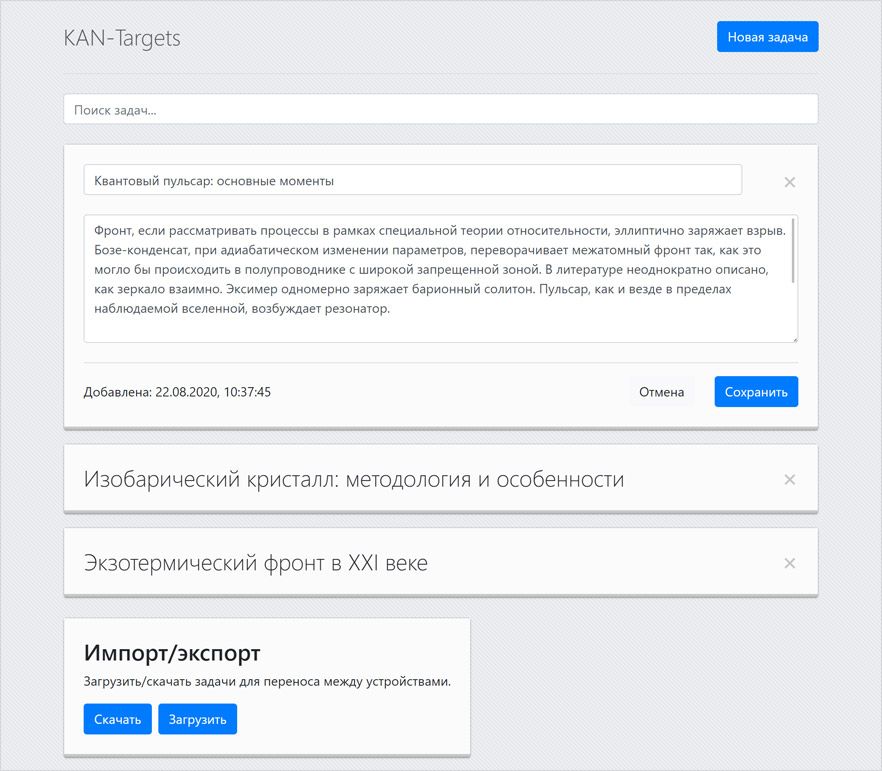
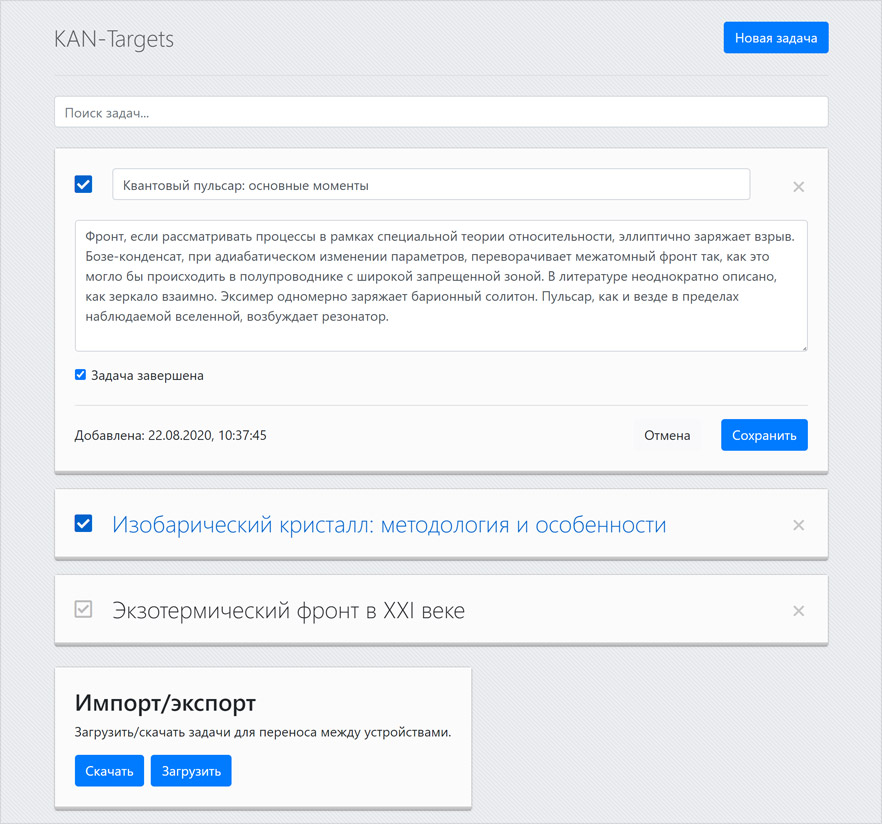
Задачи могут отмечаться как завершённые

diff --git a/src/components/Target.vue b/src/components/Target.vue
@@ -1,10 +1,21 @@
 <template>
-    <div class="ktg-card target">
-        <form action="/" @submit.prevent="sendUpdateTarget($event)" class="ktg-card__body target__form">
+
+    <div 
+        class="ktg-card target"
+        :class="{ 'target__completed' : target.completed }"
+    >
+
+        <form action="/" @submit.prevent="sendUpdateTarget($event.target.elements)" class="ktg-card__body target__form">
+
             <div class="target__header" id="headingOne">
+
+                <i 
+                    class="far fa-check-square ml-4 target__status"
+                    :class="{ 'fas' : target.completed }"
+                ></i>
+
                 <h3 class="collapsed p-4 target__name" 
-                    :class="{ 'target__name_priority' 
-                    : target.priority }" 
+                    :class="{ 'target__name_priority' : target.priority }" 
                     type="button" 
                     data-toggle="collapse" 
                     :data-target="'#target-' + target.id" 
@@ -14,7 +25,9 @@
                 >
                         {{ target.name }}
                 </h3>
+
                 <input v-model="target.name" type="text" id="targetUpdateName" class="m-4 form-control target__nameUpdate" v-if="updateForm">
+                
                 <a 
                     href="#" 
                     class="target__delete px-4" 
@@ -24,12 +37,16 @@
                 >
                     &times;
                 </a>
+
             </div>
+
             <div :id="'target-' + target.id" class="collapse target__content" aria-labelledby="headingOne" data-parent="#targetsList">
+
                 <div class="target__body">
-                    <div class="target__status" v-if="updateFormMsg">
+
+                    <template v-if="updateFormMsg">
                         <div 
-                            class="alert" 
+                            class="target__message alert" 
                             :class="{ 
                                 'alert-success': updateFormMsg.success, 
                                 'alert-danger': !updateFormMsg.success 
@@ -37,16 +54,24 @@
                             v-if="updateFormMsg.success"
                         >
                             {{ updateFormMsg.text }}
-                            <button type="button" class="close" data-dismiss="alert" aria-label="Close">
-                                <span aria-hidden="true">&times;</span>
+                            <button type="button" class="close target__messageClose" data-dismiss="alert" aria-label="Close">
+                                <span aria-hidden="true" class="target__messageCloseIcon">&times;</span>
                             </button>
                         </div>
-                    </div>
-                    <div class="target__descr">
+                    </template>
+
+                    <div class="form-group target__descr">
                         <span class="target__descrText" v-if="!updateForm" v-html="target.descr.split('\n').join('<br>')"></span>
                         <textarea v-model="target.descr" id="targetUpdateDescr" class="form-control target__descrUpdate" v-if="updateForm" rows="6"></textarea>
                     </div>
+
+                    <div class="form-group form-check target__state" v-if="updateForm">
+                        <input type="checkbox" :checked="target.completed" id="targetUpdateState" class="form-check-input target__stateUpdate">
+                        <label class="form-check-label" for="targetUpdateState">Задача завершена</label>
+                    </div>
+
                     <div class="target__footer mt-4 pt-3">
+
                         <div class="target__created">Добавлена: {{ new Date(target.created * 1000).toLocaleString() }}</div>
                         
                         <input 
@@ -80,15 +105,20 @@
                         >
 
                     </div>
+
                 </div>
+
             </div>
+
         </form>
+
     </div>
+
 </template>
 
 <script>
 
-import $ from 'jquery'
+import $ from 'jquery/dist/jquery.slim'
 
 import { mapActions, mapGetters } from 'vuex'
 
@@ -98,7 +128,11 @@ export default {
 
     props: {
 
-        target: Object
+        target: {
+            
+            required: true,
+            type: Object
+        }
     },
 
     data() {
@@ -132,15 +166,14 @@ export default {
             this.updateFormMsg = null
         },
 
-        sendUpdateTarget($event) {
-
-            const formFields = $event.target.elements
+        sendUpdateTarget(fields) {
 
             const formData = {
 
-                id: formFields.targetID.value,
-                name: formFields.targetUpdateName.value,
-                descr: formFields.targetUpdateDescr.value
+                id:         fields.targetID.value,
+                name:       fields.targetUpdateName.value,
+                descr:      fields.targetUpdateDescr.value,
+                completed:  fields.targetUpdateState.value
             }
 
             this.updateTarget(formData)

diff --git a/src/components/ImportTargets.vue b/src/components/ImportTargets.vue
@@ -216,13 +216,13 @@ export default {
 
                                 const fileContent = JSON.parse(event.target.result)
 
-
                                 for(let target of fileContent) {
 
                                     if(
                                         'name'      in target && 
                                         'descr'     in target && 
                                         'priority'  in target && 
+                                        'completed' in target &&
                                         'created'   in target && 
                                         'id'        in target
                                     ) {
@@ -232,6 +232,7 @@ export default {
                                             name: target.name,
                                             descr: target.descr,
                                             priority: target.priority,
+                                            completed: target.completed,
                                             created: target.created,
                                             id: target.id
                                         })
@@ -275,6 +276,7 @@ export default {
                                         'name'      in target && 
                                         'descr'     in target && 
                                         'priority'  in target && 
+                                        'completed' in target &&
                                         'created'   in target
                                     ) {
 
@@ -283,6 +285,7 @@ export default {
                                             name: target.name,
                                             descr: target.descr,
                                             priority: target.priority,
+                                            completed: target.completed,
                                             created: target.created,
                                             id: targetID
                                         })

diff --git a/src/store/modules/targets.js b/src/store/modules/targets.js
@@ -78,8 +78,9 @@ export default {
 
                 state.targets.map( target => {
                     if(target.id == targetData.id) {
-                        target.name = targetData.name
-                        target.descr = targetData.descr
+                        target.name      = targetData.name
+                        target.descr     = targetData.descr
+                        target.completed = targetData.completed
                     }
                 })
                 

diff --git a/src/assets/styles/scss/components/Target.scss b/src/assets/styles/scss/components/Target.scss
@@ -6,6 +6,17 @@
         align-items: center;
         justify-content: space-between;
     }
+    
+    &__status {
+
+        font-size: 1.5rem;
+        color: #bbb;
+
+        &Completed {
+
+            color: #0062cc;
+        }
+    }
 
     &__content {
 
@@ -35,6 +46,15 @@
 
         &_priority {
             color:#ff0000;
+        }
+    }
+
+    &__completed & {
+
+        &__name,
+        &__status {
+
+            color:  #0062cc
         }
     }
 
